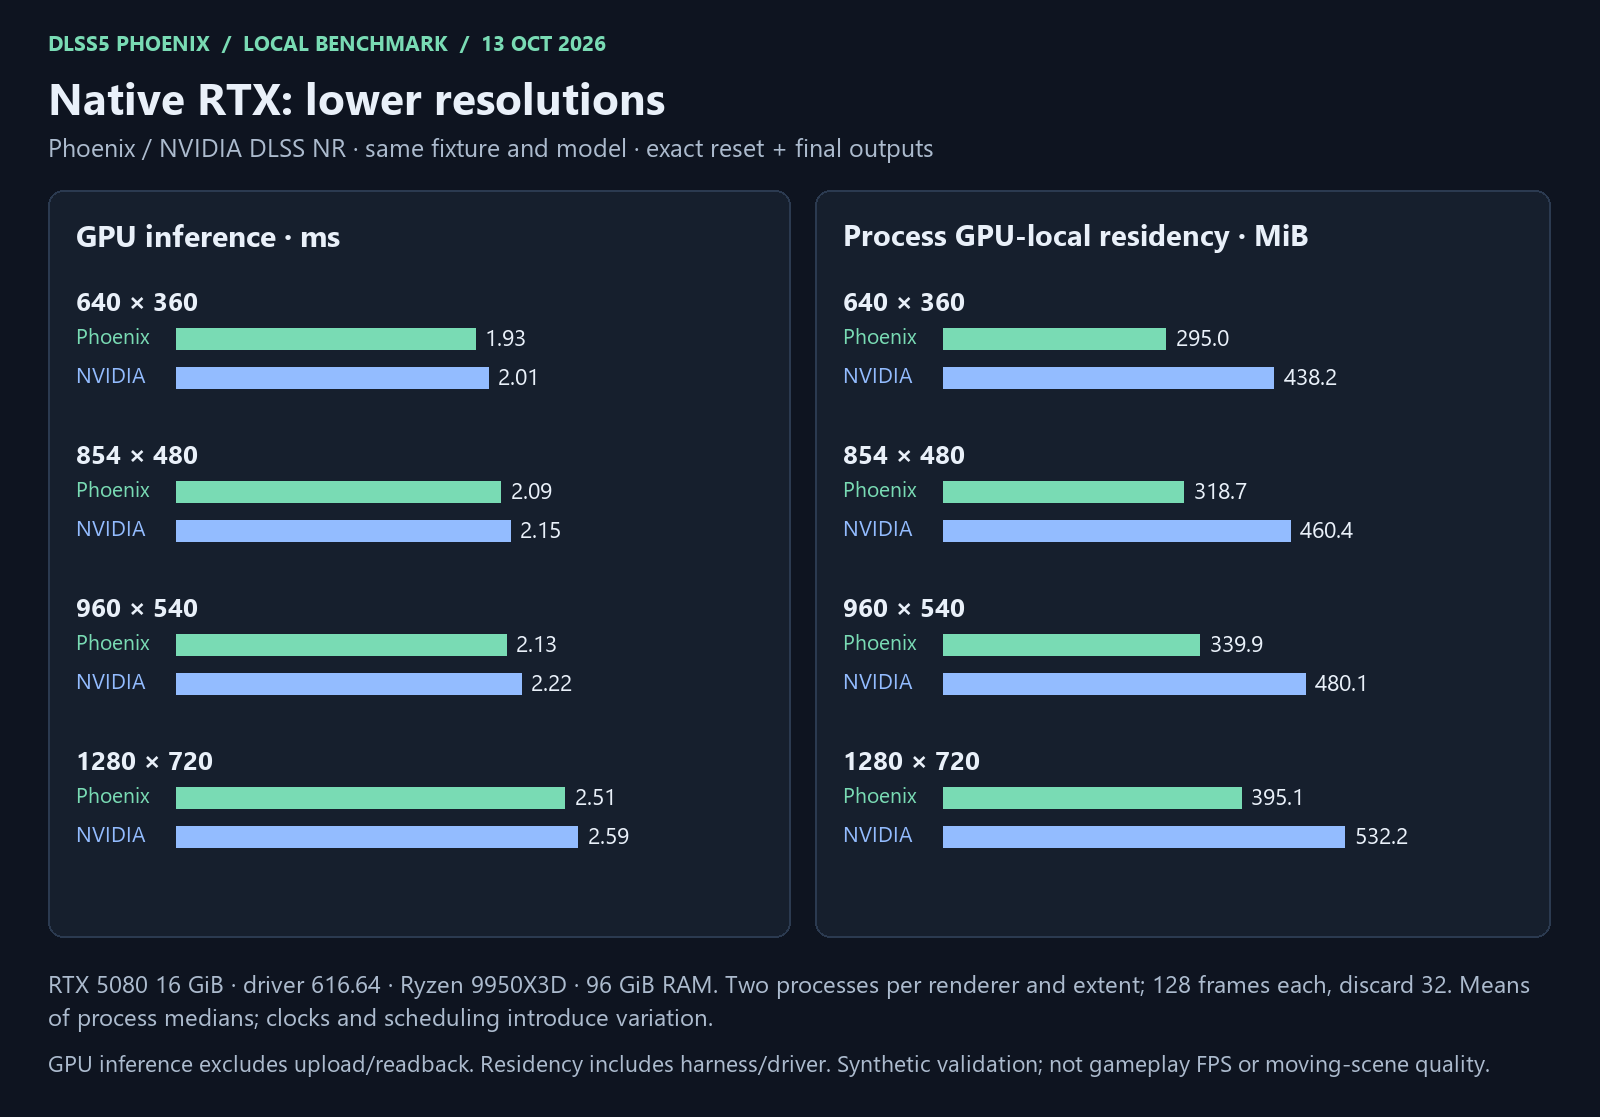
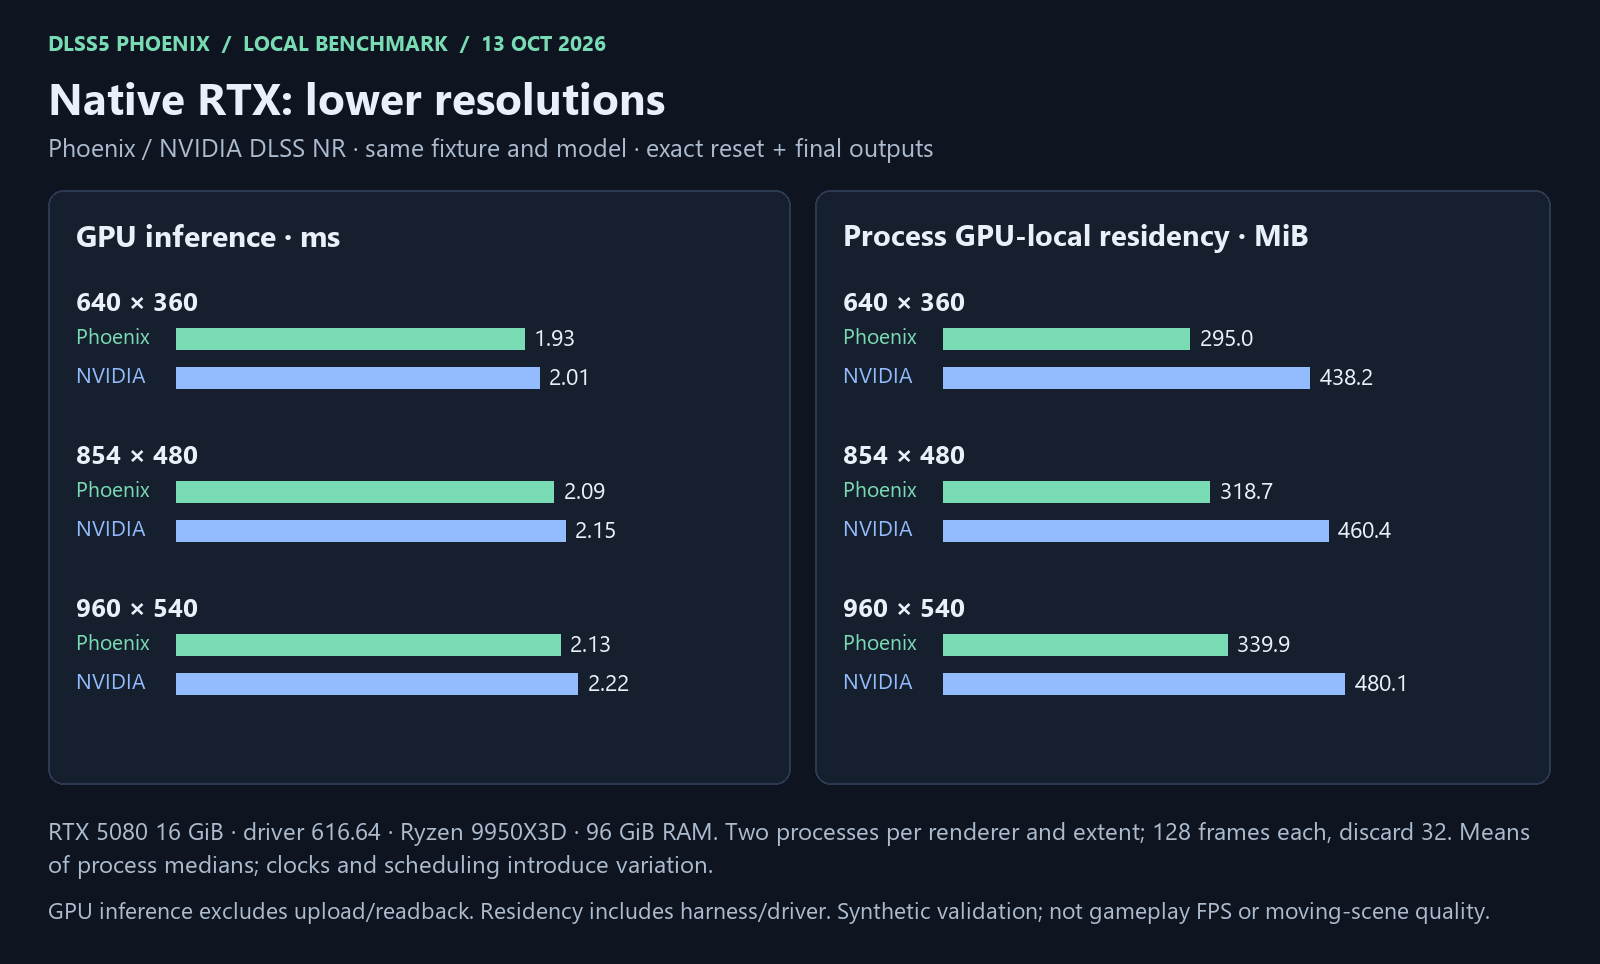
Include 720p in main benchmark charts

Changed region(s): [[0.0312, 0.0311, 0.875, 0.778], [0.0312, 0.8091, 0.9688, 0.9647]]

diff --git a/docs/benchmarks/2026-10-13/resolutions.html b/docs/benchmarks/2026-10-13/resolutions.html
@@ -15,7 +15,7 @@ GPU inference excludes upload/readback; GPU residency includes harness and drive
 <p class="muted">Reset and frame 127 match exactly at every listed extent. This fixture does not certify moving-scene quality.
 Timing ranges, host memory and numerical receipts: <a href="measurements.json">measurements</a> ·
 <a href="native-resolution-validation.json">validation</a> · <a href="README.md">methodology and limitations</a>.</p>
-<section><img src="native-resolution-scaling.png" alt="Latency and GPU memory from 1080p through 8K"></section>
+<section><img src="native-resolution-scaling.png" alt="Latency and GPU memory from 720p through 8K"></section>
 <section><img src="native-lower-resolutions.png" alt="Lower-resolution latency and GPU memory"></section>
 <section><h2>Actual output comparisons</h2><p>Final frame 127; fixed RGB range 0–1, no automatic exposure or contrast.
 Left: Phoenix. Middle: NVIDIA. Right: absolute difference ×8. Synthetic fixture, not a game screenshot.</p>

diff --git a/tools/render_readme_benchmarks.py b/tools/render_readme_benchmarks.py
@@ -94,8 +94,8 @@ def native():
     p.right(480, 499, "Phoenix", 23, GREEN)
     p.right(625, 499, "NVIDIA", 23, BLUE)
     p.right(780, 499, "Δ latency", 23, MUTED)
-    for index, row in enumerate(row for row in DATA["resolution_matrix"] if row["width"] >= 1920):
-        y = 551 + index * 54
+    for index, row in enumerate(row for row in DATA["resolution_matrix"] if row["width"] >= 1280):
+        y = 551 + index * 48
         p.text(76, y, f"{row['width']} × {row['height']}", 26)
         p.right(480, y, f"{row['phoenix']['gpu_ms']:.3f}", 26)
         p.right(625, y, f"{row['nvidia']['gpu_ms']:.3f}", 26)
@@ -174,7 +174,7 @@ GPU inference excludes upload/readback; GPU residency includes harness and drive
 <p class="muted">Reset and frame 127 match exactly at every listed extent. This fixture does not certify moving-scene quality.
 Timing ranges, host memory and numerical receipts: <a href="measurements.json">measurements</a> ·
 <a href="native-resolution-validation.json">validation</a> · <a href="README.md">methodology and limitations</a>.</p>
-<section><img src="native-resolution-scaling.png" alt="Latency and GPU memory from 1080p through 8K"></section>
+<section><img src="native-resolution-scaling.png" alt="Latency and GPU memory from 720p through 8K"></section>
 <section><img src="native-lower-resolutions.png" alt="Lower-resolution latency and GPU memory"></section>
 <section><h2>Actual output comparisons</h2><p>Final frame 127; fixed RGB range 0–1, no automatic exposure or contrast.
 Left: Phoenix. Middle: NVIDIA. Right: absolute difference ×8. Synthetic fixture, not a game screenshot.</p>
@@ -258,9 +258,9 @@ def memory():
 
 if __name__ == "__main__":
     native()
-    resolution_scaling([row for row in DATA["resolution_matrix"] if row["width"] >= 1920],
-                       "Native RTX: 1080p through 8K", "native-resolution-scaling.png")
-    resolution_scaling([row for row in DATA["resolution_matrix"] if row["width"] < 1920],
+    resolution_scaling([row for row in DATA["resolution_matrix"] if row["width"] >= 1280],
+                       "Native RTX: 720p through 8K", "native-resolution-scaling.png")
+    resolution_scaling([row for row in DATA["resolution_matrix"] if row["width"] < 1280],
                        "Native RTX: lower resolutions", "native-lower-resolutions.png")
     resolution_report()
     portable()

diff --git a/README.md b/README.md
@@ -37,10 +37,10 @@ excludes upload/readback and is not game frame time. Resolution planning and
 padding are corrected; the optimized CUDA kernel binaries are unchanged.
 Current native kernels target **sm_120**; the tested GPU is an RTX 5080.
 
-![Native Phoenix and NVIDIA DLSS NR: latency and GPU residency from 1080p through 8K](docs/benchmarks/2026-10-13/native-resolution-scaling.png)
+![Native Phoenix and NVIDIA DLSS NR: latency and GPU residency from 720p through 8K](docs/benchmarks/2026-10-13/native-resolution-scaling.png)
 
 <details>
-<summary>Lower input resolutions: 360p, 480p, 540p and 720p</summary>
+<summary>Lower input resolutions: 360p, 480p and 540p</summary>
 
 ![Native Phoenix and NVIDIA DLSS NR: lower-resolution latency and GPU residency](docs/benchmarks/2026-10-13/native-lower-resolutions.png)
 
